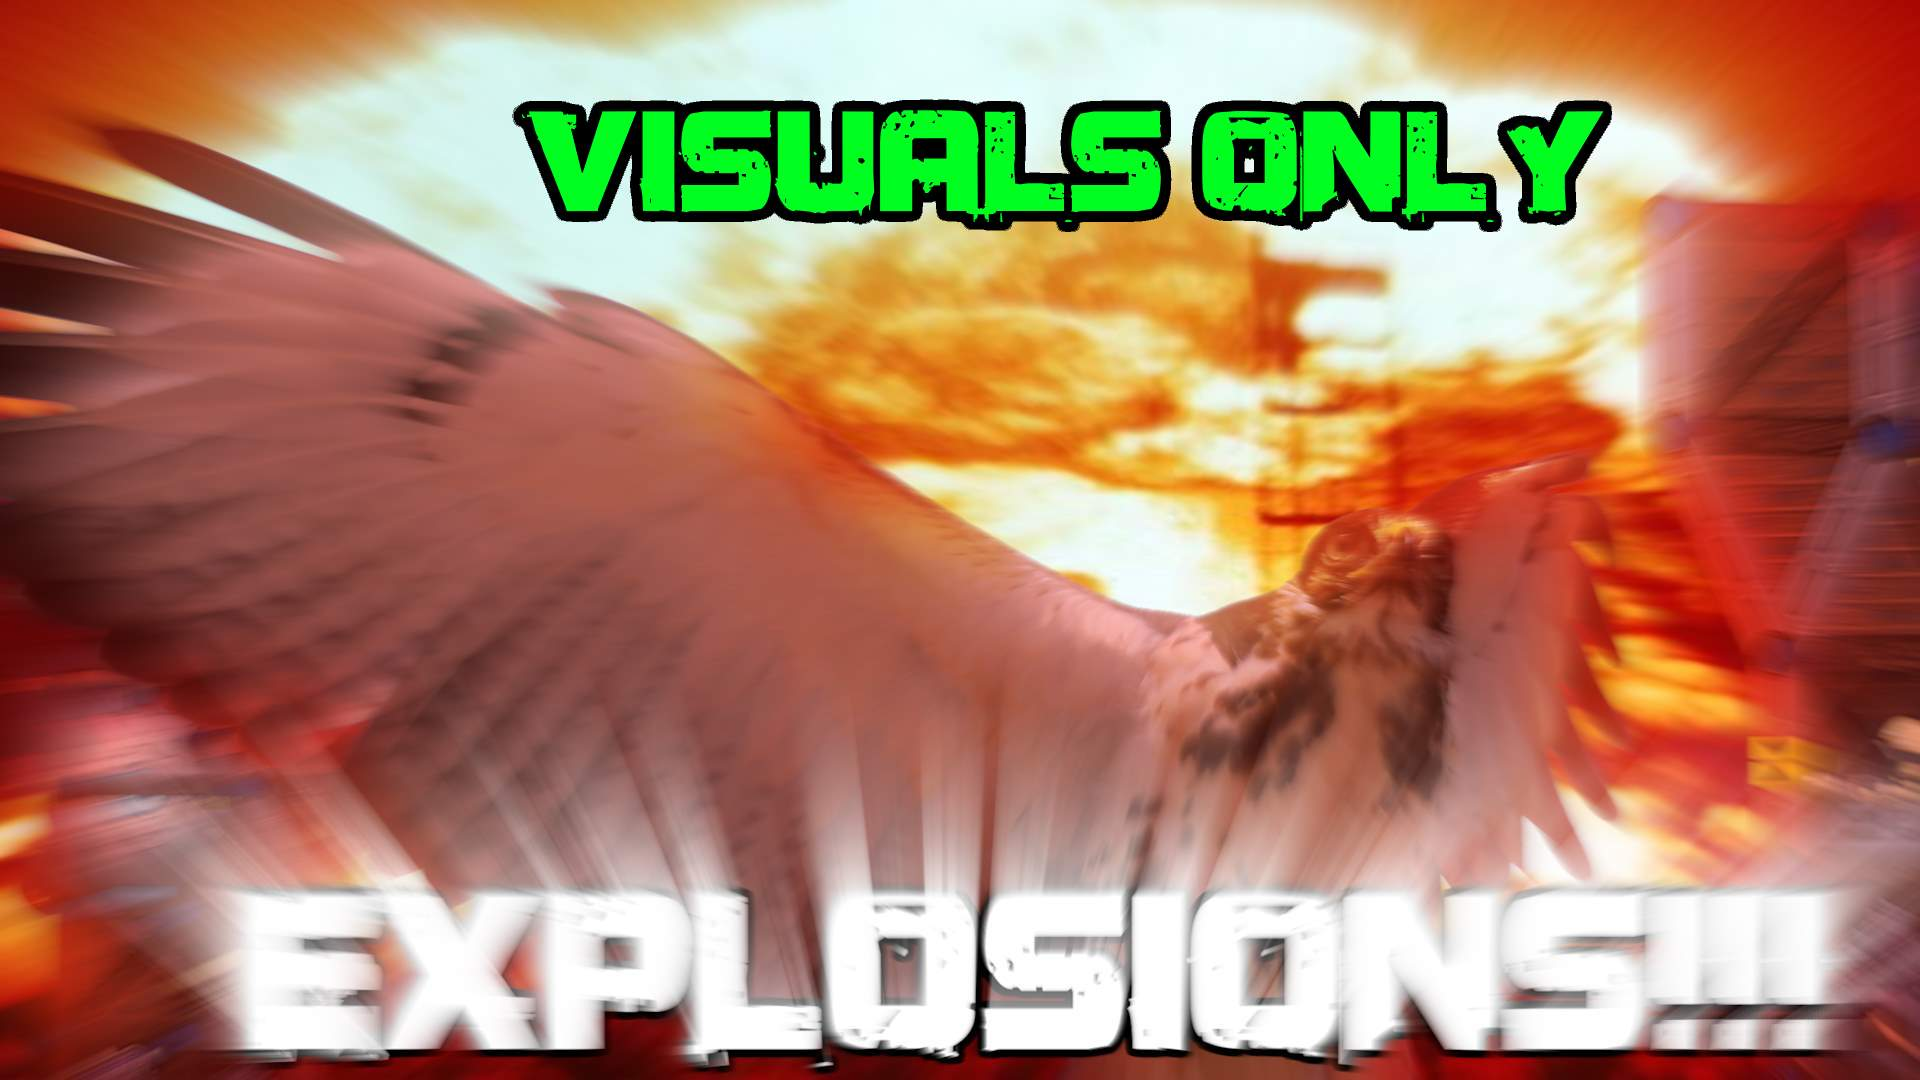
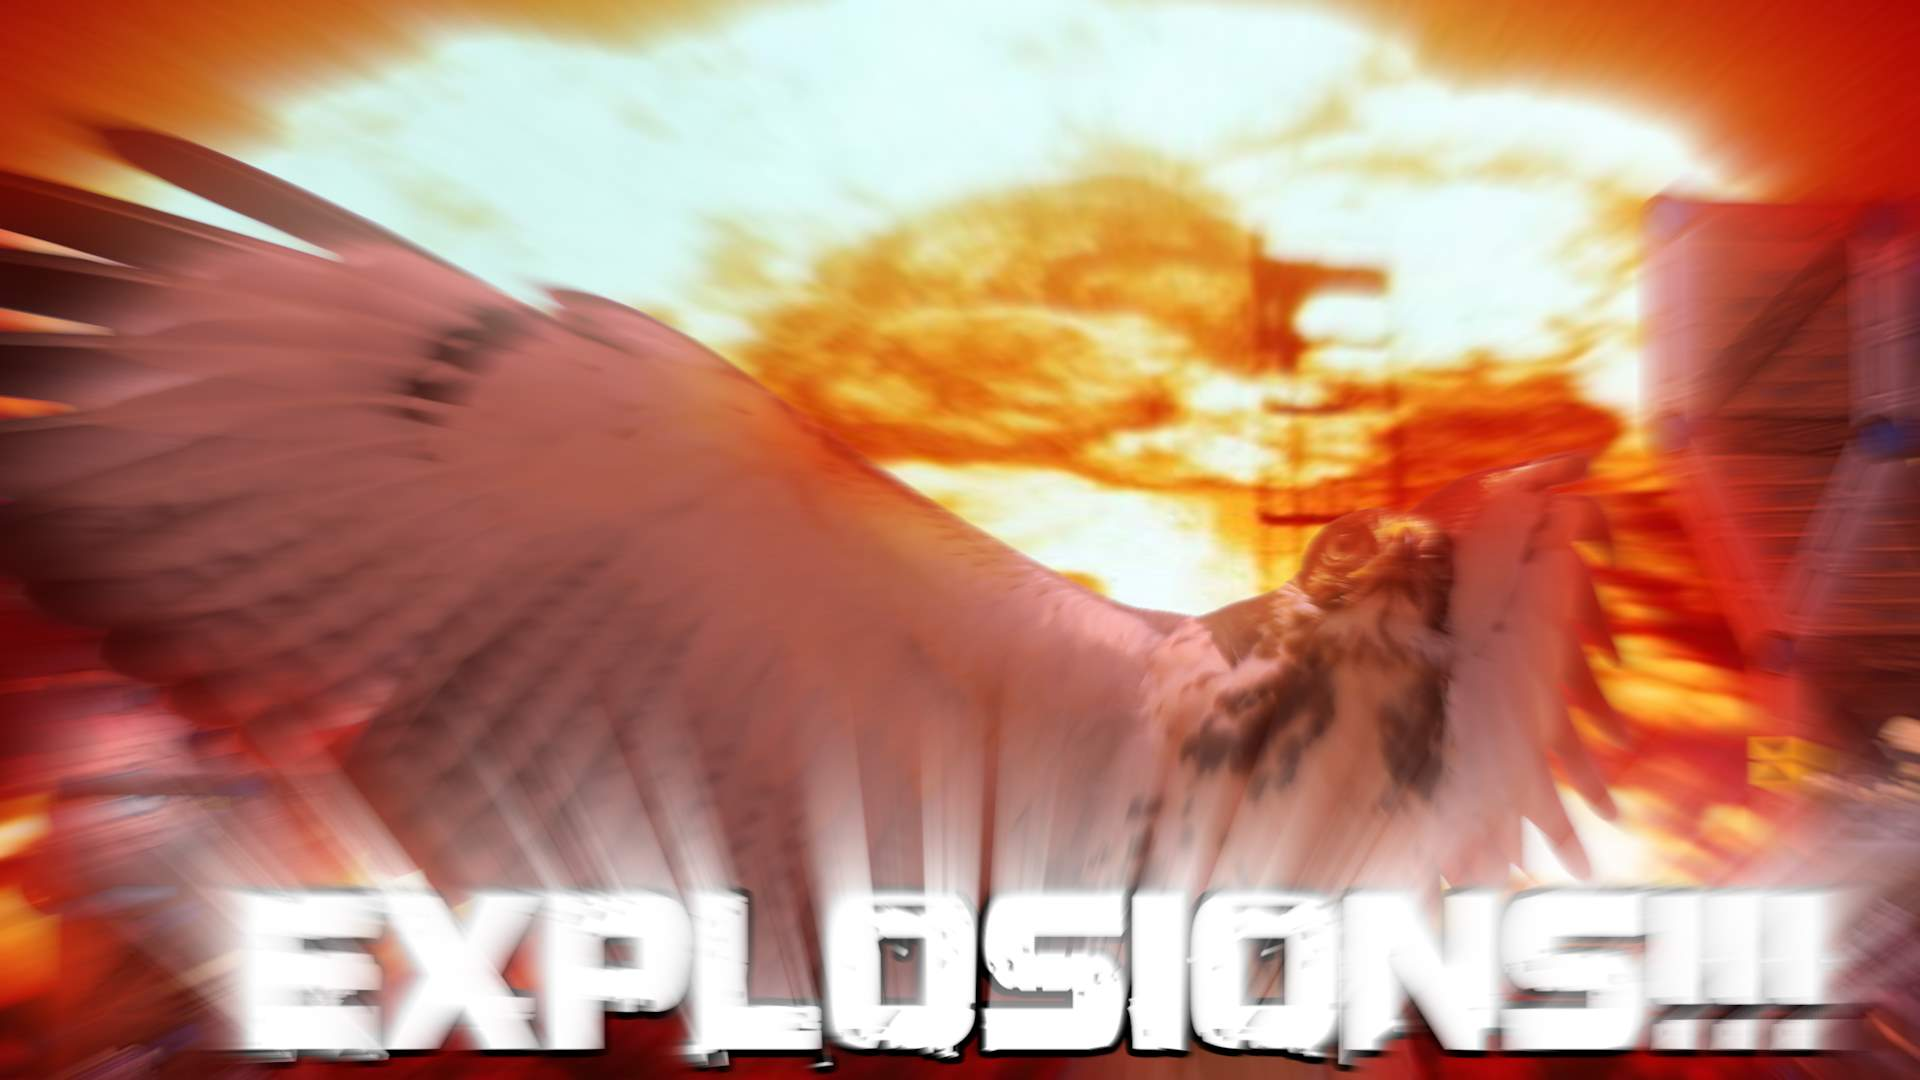
Revert "Merge branch 'main' into main"
This reverts commit 8f1557e2e9939084b0410b6d00c54392be2d1b99, reversing
changes made to fcf1d11d84e235aea0bad0f43fb4f207fd9b009b.

Changed region(s): [[0.25, 0.0917, 0.8438, 0.2139]]

diff --git a/README.md b/README.md
@@ -1,5 +1,4 @@
-# explosions-fx-visuals
-This is the visuals only version of the explosions mod
+# explosions
 Makes effects and explosions look cool. AKA shader mod, RTX mod.
 
 You are allowed to upload your own version of the explosions mod to the Forts steam workshop or copy anything from this mod for use on the Forts Steam workshop.
